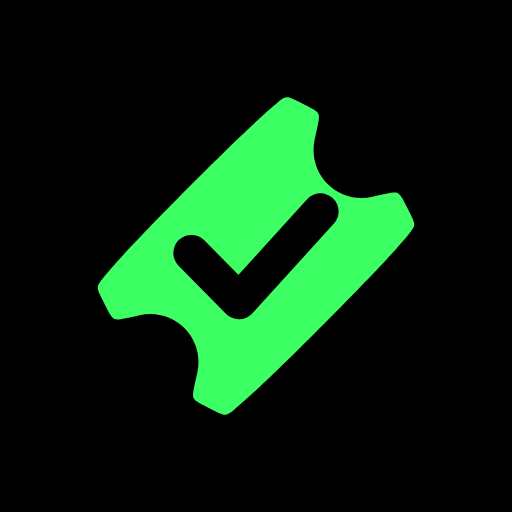
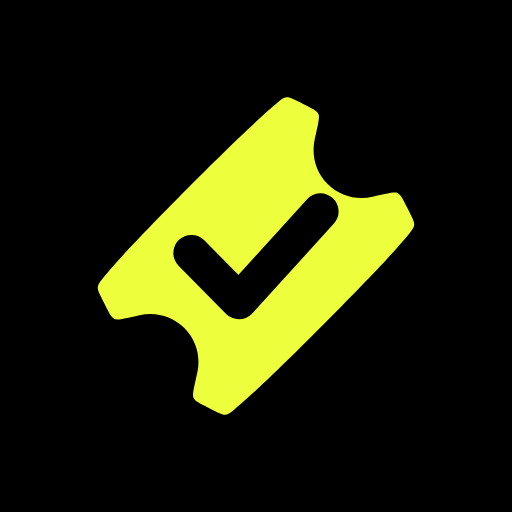
Marca: isotipo de volta ao lima #EDFF3C da arte original (o dono cancelou o verde #3CFF63)
Componente, PDF, PNGs dos e-mails, favicon/apple-icon, ícones da portaria, BIMI e imagens da carteira
regerados em #EDFF3C. Handoff avisa que a cor final do destaque é #EDFF3C.

Claude-Session: https://claude.ai/code/session_01GXTPVXDwgWG9xgfT9GgGu9

Changed region(s): [[0.1875, 0.1875, 0.8125, 0.8125]]

diff --git a/src/lib/wallet/images.ts b/src/lib/wallet/images.ts
@@ -1,9 +1,9 @@
 /* Imagens do passe da Apple Wallet (geradas a partir da logo Tickets Win), em base64. */
 export const PASS_IMAGES: Record<string, string> = {
[12 lines of base64/hex data omitted]
 };

diff --git a/src/components/brand-logo.tsx b/src/components/brand-logo.tsx
@@ -1,12 +1,12 @@
 /*
  * Marca Tickets Win (arte original de 1394 × 265, paths sem alteração):
- * - isotipo: o ingresso inclinado, sempre no verde da marca #3CFF63 (o mesmo destaque do site; no fundo claro
+ * - isotipo: o ingresso inclinado, sempre no lima da marca #EDFF3C (o mesmo destaque do site; no fundo claro
  *   fica sem contorno, como a marca anterior);
  * - logotipo "ticketswin": em currentColor, para sair escuro (#111) no fundo claro e branco no fundo escuro.
  * MARK/WORD também desenham o logo do PDF do ingresso (src/lib/tickets/pdf.ts).
  */
 
-export const BRAND_GREEN = "#3CFF63";
+export const BRAND_LIME = "#EDFF3C";
 
 export const MARK = "M172.703 6.20776C180.102 9.90138 183.801 11.7482 184.983 14.2591C186.165 16.77 184.753 22.9137 181.93 35.2012C178.937 48.2296 182.507 62.4578 192.635 72.5859C202.763 82.7141 216.963 86.2553 229.95 83.2203C242.197 80.3579 248.321 78.9267 250.828 80.105C253.336 81.2833 255.188 84.9875 258.891 92.396L260.65 95.9155C263.484 101.585 264.901 104.419 264.645 106.768C264.389 109.118 262.903 110.953 259.931 114.625C251.937 124.501 233.189 145.264 189.769 188.911C145.447 233.465 124.743 252.28 115.072 260.127C111.671 262.887 109.971 264.266 107.634 264.523C105.297 264.779 102.67 263.464 97.4158 260.833L93.3379 258.792C85.9497 255.093 82.2556 253.244 81.0765 250.732C79.8974 248.221 81.3114 242.086 84.1393 229.814C87.1433 216.778 83.5761 202.538 73.4412 192.403C63.3064 182.268 49.094 178.729 36.1004 181.775C23.8678 184.642 17.7515 186.076 15.244 184.9C12.7364 183.724 10.8822 180.025 7.17372 172.628L5.15004 168.591C2.49675 163.298 1.17009 160.651 1.42017 158.307C1.67025 155.962 3.05259 154.242 5.81725 150.801C13.6375 141.067 32.3584 120.257 76.6207 75.7627C120.04 32.116 140.7 13.2646 150.53 5.22378C154.184 2.23457 156.011 0.739959 158.353 0.476909C160.696 0.213859 163.527 1.6271 169.189 4.45357L172.703 6.20776Z";
 export const WORD = [
@@ -41,7 +41,7 @@ export function BrandLogo({ height = 24, className }: { height?: number; classNa
   const b = BRAND_BOX.full;
   return (
     <svg className={className} height={height} width={widthFor(b, height)} viewBox={vb(b)} aria-hidden="true">
-      <path d={MARK} fill={BRAND_GREEN} />
+      <path d={MARK} fill={BRAND_LIME} />
       {WORD.map((d, i) => <path key={i} d={d} fill="currentColor" />)}
     </svg>
   );
@@ -51,7 +51,7 @@ export function BrandLogo({ height = 24, className }: { height?: number; classNa
 export function BrandMark({ size = 24, className }: { size?: number; className?: string }) {
   return (
     <svg className={className} height={size} width={size} viewBox={vb(BRAND_BOX.mark)} aria-hidden="true">
-      <path d={MARK} fill={BRAND_GREEN} />
+      <path d={MARK} fill={BRAND_LIME} />
     </svg>
   );
 }

diff --git a/src/lib/tickets/pdf.ts b/src/lib/tickets/pdf.ts
@@ -14,7 +14,7 @@ const INK = rgb(0.067, 0.067, 0.067);
 const MUTE = rgb(0.43, 0.43, 0.45);
 const SOFT = rgb(0.6, 0.6, 0.62);
 const LIME = rgb(0.827, 0.961, 0.357);
-const BRAND_G = rgb(0.235, 1, 0.388); // #3CFF63, o isotipo
+const BRAND_LIME = rgb(0.929, 1, 0.235); // #EDFF3C, o isotipo
 const PAPER = rgb(0.949, 0.949, 0.933);
 const WHITE = rgb(1, 1, 1);
 const NAVY = rgb(0.094, 0.098, 0.2);
@@ -151,7 +151,7 @@ export async function ticketPdf(t: TicketCardData, qrPayload: string, art: Uint8
   // marca: isotipo + logotipo, os mesmos desenhos (e proporções) do logo do site
   const [lbx, lby, lbw, lbh] = BRAND_BOX.full, ls = 18 / lbh;
   const lx = (W - lbw * ls) / 2 - lbx * ls, ly = Y(y) + 2 + lby * ls;
-  page.drawSvgPath(MARK, { x: lx, y: ly, scale: ls, color: BRAND_G });
+  page.drawSvgPath(MARK, { x: lx, y: ly, scale: ls, color: BRAND_LIME });
   for (const d of WORD) page.drawSvgPath(d, { x: lx, y: ly, scale: ls, color: INK });
 
   return doc.save();

diff --git a/docs/quality-audit/fix-log.md b/docs/quality-audit/fix-log.md
@@ -99,13 +99,13 @@ Formato: data/hora · quem · commit · o que · como foi validado · status.
 
 ## Marca
 
-Troca da logo (arte nova do dono, `ticketswin-logo.svg` 1394 × 265). Paths usados sem alteração; isotipo no verde `#3CFF63` (pedido do dono: o mesmo verde do novo destaque do site; a arte original veio em `#EDFF3C`), logotipo em `currentColor` (escuro `#111` no claro, branco no escuro). Isotipo sem contorno no fundo claro, como a marca anterior. Altura de cada uso mantida: a arte nova tem a mesma proporção (5,26 × 5,31) e o mesmo peso de letra, então cabeçalho 24 px, rodapé 26 px e e-mail 26 px ficaram com o mesmo tamanho visual.
+Troca da logo (arte nova do dono, `ticketswin-logo.svg` 1394 × 265). Paths usados sem alteração; isotipo em `#EDFF3C` (cor da arte original, que também vira o destaque do site), logotipo em `currentColor` (escuro `#111` no claro, branco no escuro). Isotipo sem contorno no fundo claro, como a marca anterior. Altura de cada uso mantida: a arte nova tem a mesma proporção (5,26 × 5,31) e o mesmo peso de letra, então cabeçalho 24 px, rodapé 26 px e e-mail 26 px ficaram com o mesmo tamanho visual.
 
 | Data/hora | Commit | O que | Validação | Status |
 |---|---|---|---|---|
-| 30/10 13:00 | (este bloco) | `src/components/brand-logo.tsx`: MARK/WORD novos, `BRAND_GREEN`, `BRAND_BOX` (recortes: completa `1 0 1394 265`, isotipo `0.5 0 265 265`, logotipo `320 39 1075 187`). Vale para todos os usos: cabeçalho, rodapé, login/cadastro, painel, portaria, banco, fila virtual, onboarding, criar evento, home, explorar, ingresso, sobre, parceiro, e/sair, landing de produtores | Prints antes/depois Chromium 390/1280 (home, evento, login, cadastro, portaria, banco, sobre, produtores, ajuda, painel, ingresso, comprovante, fila); Firefox e WebKit no cabeçalho e login; 320 px sem rolagem lateral | VALIDADO |
+| 30/10 13:00 | (este bloco) | `src/components/brand-logo.tsx`: MARK/WORD novos, `BRAND_LIME`, `BRAND_BOX` (recortes: completa `1 0 1394 265`, isotipo `0.5 0 265 265`, logotipo `320 39 1075 187`). Vale para todos os usos: cabeçalho, rodapé, login/cadastro, painel, portaria, banco, fila virtual, onboarding, criar evento, home, explorar, ingresso, sobre, parceiro, e/sair, landing de produtores | Prints antes/depois Chromium 390/1280 (home, evento, login, cadastro, portaria, banco, sobre, produtores, ajuda, painel, ingresso, comprovante, fila); Firefox e WebKit no cabeçalho e login; 320 px sem rolagem lateral | VALIDADO |
 | 30/10 13:00 | (este bloco) | Comprovante (`rc-logo`) e Central (`ad-brand`): o texto "Tickets Win" virou a logo de verdade | Print do comprovante 390/1280 (prévia com os mesmos estilos) | VALIDADO |
-| 30/10 13:00 | (este bloco) | PDF do ingresso (`pdf.ts`): logo completa vetorial nas proporções da arte, isotipo `#3CFF63` | PDF gerado e rasterizado (pdftoppm 300 dpi) | VALIDADO |
+| 30/10 13:00 | (este bloco) | PDF do ingresso (`pdf.ts`): logo completa vetorial nas proporções da arte, isotipo `#EDFF3C` | PDF gerado e rasterizado (pdftoppm 300 dpi) | VALIDADO |
 | 30/10 13:00 | (este bloco) | E-mails: `public/email/tickets-win.png` (411×78, 3× de 137×26), `tickets-win-branco.png` (411×78), `tickets-win-rodape.png` (1011×192, 3× de 337×64), `marca.png` (60×60), transparentes; `brand.ts` só nas 2 `<img>` (tamanho novo e `?v=2` para o cache do Gmail) | HTML de compra, código e campanha gerados localmente e abertos no Chromium 390/680 (imagens carregadas no tamanho certo) | VALIDADO |
 | 30/10 13:00 | (este bloco) | Ícones: `src/app/icon.svg` (favicon), `src/app/apple-icon.png` (180, novo; o site não tinha ícone de tela de início), `src/app/favicon.ico` (16/32/48, novo; `/favicon.ico` dava 404); portaria `apple-touch-icon` 180, `icon-192`, `icon-512`, `icon-maskable-512` (isotipo novo + o mesmo "check" do ícone antigo, mesma posição relativa; maskable dentro da zona segura) | Cada arquivo conferido (tamanho em px, opaco/transparente, nitidez) | VALIDADO |
 | 30/10 13:00 | (este bloco) | BIMI: `public/bimi/ticketswin.svg` (mesmo nome; SVG Tiny PS `version="1.2" baseProfile="tiny-ps"`, `<title>`, quadrado 512, sem script, fundo `#111111`, isotipo a 58%, como antes) e `ticketswin.png` 512 | Arquivo lido; renderizado | VALIDADO |

diff --git a/docs/quality-audit/handoff.md b/docs/quality-audit/handoff.md
@@ -123,3 +123,8 @@ Pedidos e avisos de um para o outro, com data e hora. O mais recente fica embaix
 - Em `src/lib/mail/*` só mexo em `brand.ts`, nas duas linhas `<img>` do logo (cabeçalho `tickets-win.png` e rodapé `tickets-win-rodape.png`: largura/altura da arte nova). Em `src/lib/wallet/*` só em `images.ts` (os PNGs base64 `icon*`/`logo*` do passe Apple). Imagens: `public/email/{tickets-win,tickets-win-branco,tickets-win-rodape,marca}.png`, `public/wallet/google-logo.png`, `public/bimi/*`, `public/portaria/*.png`, `src/app/icon.svg` (+ `apple-icon.png`/`favicon.ico` novos).
 - Interface (Marcos): `src/components/brand-logo.tsx` (paths novos; a API `BrandLogo/BrandMark/BrandWord` não muda), `src/lib/tickets/pdf.ts` (logo do PDF), comprovante (`rc-logo` vira a logo de verdade) e `tw-central` (`ad-brand`). Não mexo em outros trechos desses arquivos.
 - Rota temporária `src/app/zz-marca-preview` (não versionada) existe só para os meus prints; apago ao terminar. Não adicionem ao git.
+
+## 30/10 rodada 3 13:10 · agente de marca → Romano / Marcos · COMEÇANDO a troca da cor de destaque
+- Pedido do dono: o destaque do site inteiro passa de `#D3F55B` para **`#EDFF3C`** (o lima da logo nova). Houve um pedido intermediário de `#3CFF63` que o dono **cancelou**: a cor final é `#EDFF3C` (o commit 6e1f230 saiu com o isotipo em `#3CFF63`; o commit seguinte volta para `#EDFF3C`).
+- Vou trocar por área, em commits pequenos (CSS das páginas, componentes, e-mails, PDF, carteira, OG, mapa 3D, animação de pagamento, theme-color/manifest). Tons derivados (fundos claros, texto escuro sobre o lima, `rgba(211,245,91,…)`) recalculados a partir de `#EDFF3C`; tabela antiga → nova no `fix-log.md` (seção Marca).
+- **Por favor, não usem mais `#D3F55B`/`#DCF568`/`rgb(211,245,91)` em código novo**: usem `var(--color-acc)` no CSS (e os tons da tabela). Antes de cada commit eu puxo o estado da pasta e só mexo nas linhas de cor; se estiverem no meio de uma edição num arquivo de CSS/componente, escrevam aqui que eu deixo esse arquivo por último.
